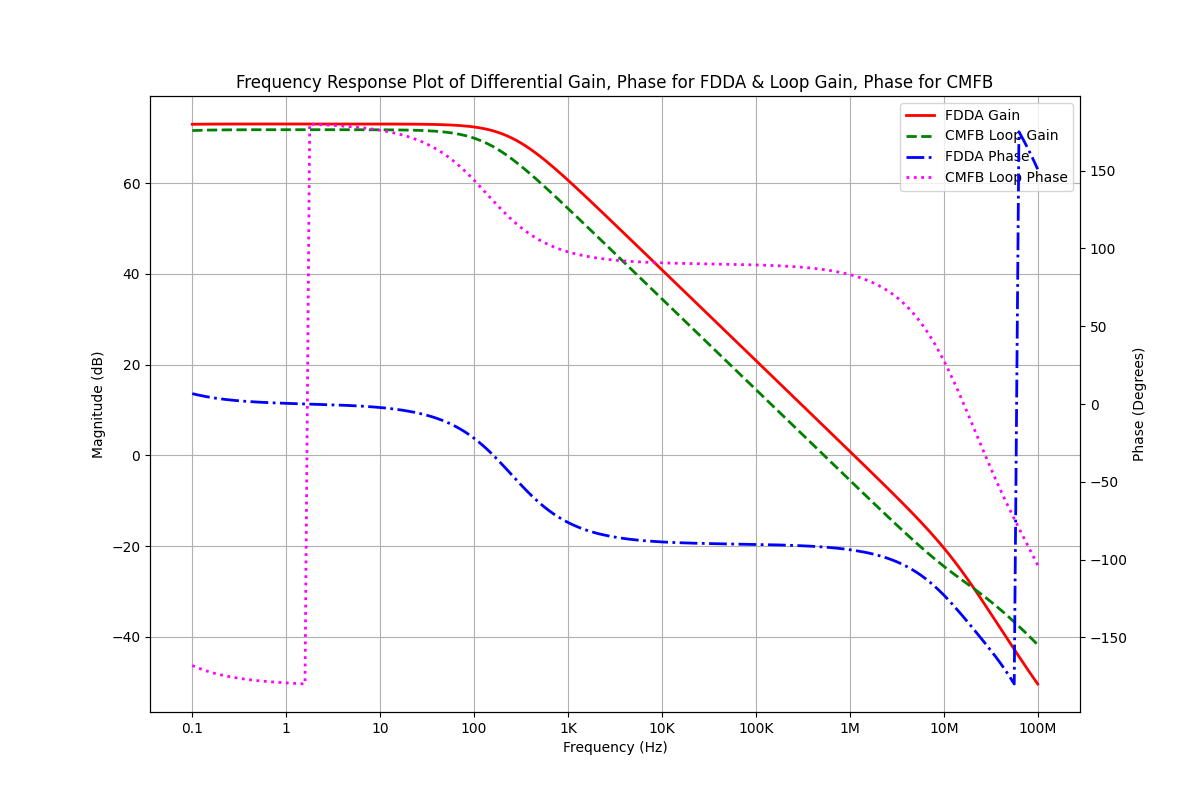
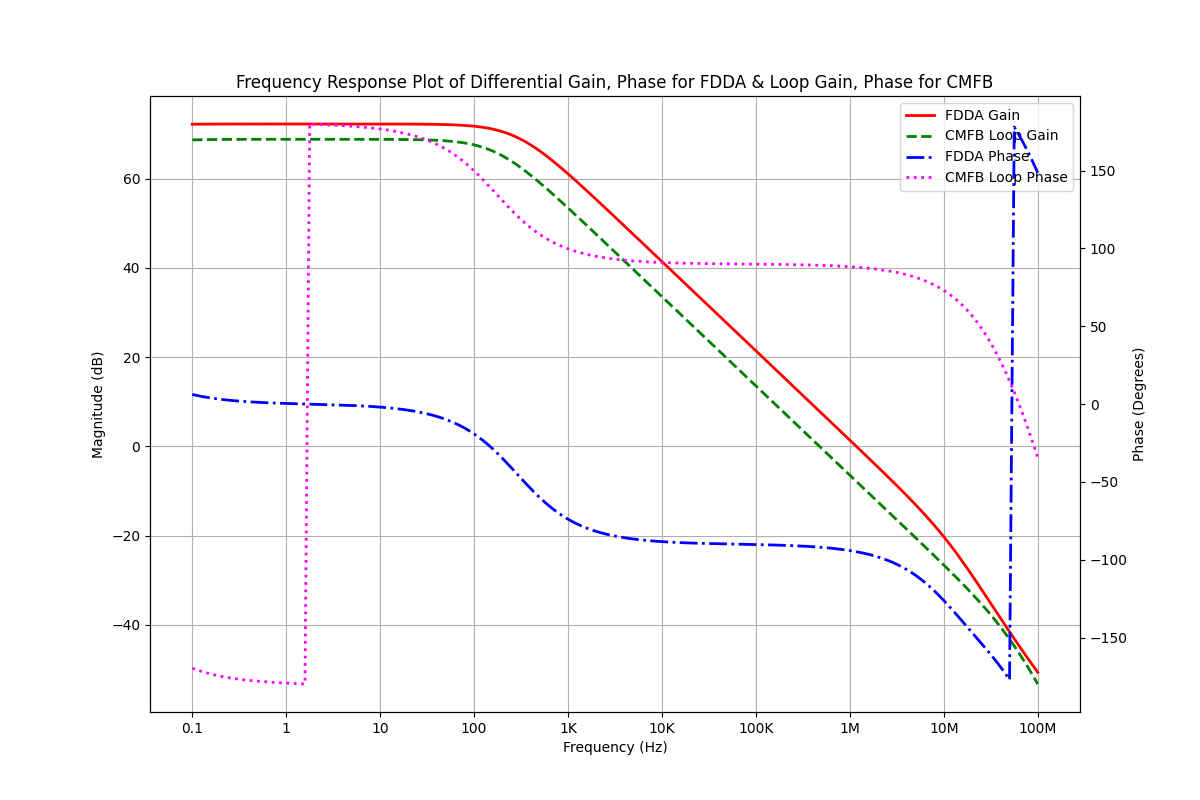
FDDA-CMFB device sizings V1

diff --git a/Complete Framework/FDDA_CMFB/Final_Simulation/results.py b/Complete Framework/FDDA_CMFB/Final_Simulation/results.py
@@ -242,7 +242,8 @@ def runsim_SLEW(measurement_results):
     ax.scatter([t_10*1e6, t_90*1e6], [v_10, v_90], color='black', zorder=5)
 
     # Draw a line between two points
-    ax.plot([t_10*1e6, t_90*1e6], [v_10, v_90], color='black', linestyle='--', linewidth=1)
+    ax.plot([t_10*1e6, t_90*1e6], [v_10, v_10], color='black', linestyle='--', linewidth=1)
+    ax.plot([t_90*1e6, t_90*1e6], [v_10, v_90], color='black', linestyle='--', linewidth=1)
 
     lns = l1 + l2
     labs = [l.get_label() for l in lns]
@@ -534,18 +535,18 @@ def evaluate_design(current_params, plots=False):
 
     return specs_met, current_results
     
-params = {'W_1': 86, 'L_1': 0.3,
-          'W_2': 0.92, 'L_2': 0.7,
-          'W_3': 0.88, 'L_3': 1,
-          'W_4': 0.87, 'L_4': 3,
-          'W_5': 2.5, 'L_5': 2,
-          'W_6': 4.2, 'L_6': 0.7,
-          'W_7': 29, 'L_7': 3,
-          'W_8': 4.4, 'L_8': 0.7,
-          'V_B1': 0.718,
-          'V_B2': 0.699,
-          'V_B3': 1.040,
-          'V_B4': 0.297,
+params = {'W_1': 85, 'L_1': 0.3,
+          'W_2': 0.5, 'L_2': 0.3,
+          'W_3': 1.2, 'L_3': 0.8,
+          'W_4': 0.81, 'L_4': 3,
+          'W_5': 2.4, 'L_5': 2,
+          'W_6': 3.6, 'L_6': 0.6,
+          'W_7': 20, 'L_7': 0.3,
+          'W_8': 2.3, 'L_8': 0.3,
+          'V_B1': 0.725,
+          'V_B2': 0.702,
+          'V_B3': 1.044,
+          'V_B4': 0.348,
           'V_CM': 0.9}
 
 if __name__ == "__main__":
